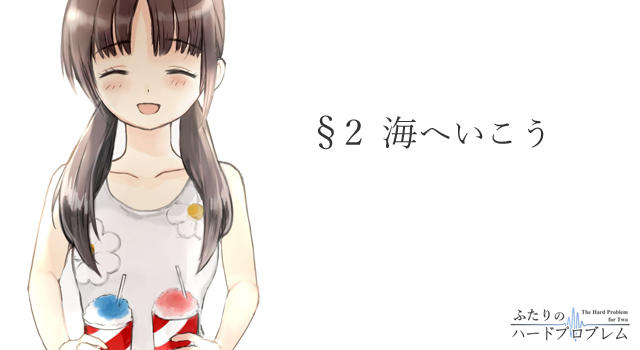
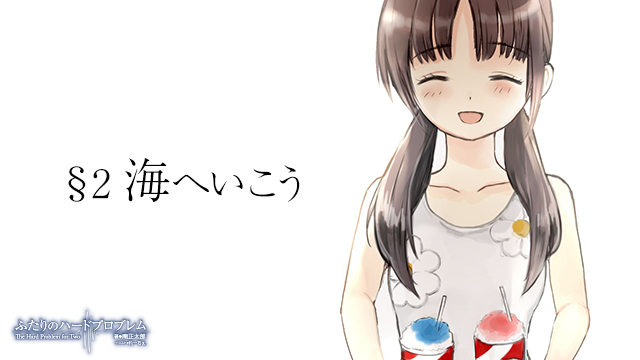
ロゴデザイン変更

diff --git a/hardproblem/1-03.html b/hardproblem/1-03.html
@@ -72,10 +72,10 @@
 「大丈夫だから！　戻らないから！」
 　女の子を洗面所に押し返し、受け取った携帯端末の液晶パネルに目を落とした。製品情報はご丁寧にも中日韓越英の五ヶ国語で書かれており、希海はその中の日本語で書かれた部分に画面をスクロールさせる。
 
-　<span class="simplified">型番</span> : SUM17F4JP1698
-　<span class="simplified">制造番号</span> : 09-130221-0802-000
-　<span class="simplified">制造・贩卖</span> : <span class="simplified">上海人偶机器人工学有限公司近畿支店</span>
-　カスタマーサポート : 0120-XXX-XXX （<span class="simplified">二十四时间</span>）
+　<span class="simplified">型番 : SUM17F4JP1698</span>
+　<span class="simplified">制造番号 : 09-130221-0802-000</span>
+　<span class="simplified">制造・贩卖 : 上海人偶机器人工学有限公司近畿支店</span>
+　カスタマーサポート<span class="simplified"> : 0120-XXX-XXX （二十四时间）</span>
 
 　ビンゴ。ウェブで検索するまでもなく電話番号まで載っていた。しかも、ありがたいことにフリーダイヤルである。
 「どうでしたか？」

diff --git a/hardproblem/components.js b/hardproblem/components.js
@@ -55,7 +55,7 @@ Vue.component('hpft-main-header', {
 
 Vue.component('hpft-page-header', {
   className: 'header hpft-header hpft-page-header',
-  template: '<a href="../hardproblem"><img src="../img/hardproblem_logo_header.png" /></a>'
+  template: '<a href="../hardproblem"><img id="headerlogo" src="../img/hardproblem_logo_1_header.png" /></a>'
           + '<div v-component="hpft-section-index-in-page-header"></div>'
           + '<div class="hr"></div>'
 });
@@ -101,7 +101,7 @@ Vue.component('hpft-section-index-in-page-header', {
           + '</ol>'
           + '<br />'
           + '<select id="fontselect" onchange="selectFont(value)" class="fontselect">'
-          + '<option value="../fonts/yu_mincho.css" selected>游明朝／IPAex明朝</option>'
+          + '<option value="../fonts/yu_mincho.css" selected>游明朝</option>'
           + '<option value="../fonts/notosans.css">Noto Sans CJK</option>'
           + '<option value="../fonts/meiryo.css">メイリオ</option>'
           + '<option value="../fonts/msmincho.css">MS明朝</option>'

diff --git a/hardproblem/desktop.css b/hardproblem/desktop.css
@@ -200,7 +200,6 @@ div.footer div.hpft-index div.hpft-section-index > ol li:hover {
  * Contents
 \**************************************/
 div.contents {
-  color: #666;
   width: 40em;
   margin: 5em auto 5em;
   padding: 0;
@@ -208,7 +207,6 @@ div.contents {
 
 div.contents div.text {
   line-height: 2;
-  font-weight:;
   font-size:17.5px;
   text-align:justify;
 }
@@ -220,8 +218,8 @@ div.contents div.text {
 span.simplified {
   line-height: 2;
   vertical-align:0%;
-  font-size:100%;
 }
+
 
 span.ref_category {
   line-height: 2;
@@ -241,10 +239,10 @@ li.ref_title {
 \**************************************/
 div.contents div.logo {
   border: solid 1px #ccc;
+  width:100%;
 }
 
 div.contents div.logo img {
-  width: 100%;
 }
 
 div.hpft-main-header {

diff --git a/hardproblem/cookie.js b/hardproblem/cookie.js
@@ -4,9 +4,12 @@ flag7=string.indexOf("hpftflag7");
 if(flag7 == -1){
   if(flag4 == -1){
     document.getElementById("cover").src="../img/title1.png";
+    document.getElementById("headerlogo").src="../img/hardproblem_logo_1_header.png"
   }else{
     document.getElementById("cover").src="../img/title2.png";
+    document.getElementById("headerlogo").src="../img/hardproblem_logo_2_header.png"
   }
 }else{
     document.getElementById("cover").src="../img/title3.png";
+    document.getElementById("headerlogo").src="../img/hardproblem_logo_3_header.png"
 }

diff --git a/fonts/yu_mincho.css b/fonts/yu_mincho.css
@@ -1,7 +1,9 @@
+/*
 @font-face {
   font-family: "IPAex明朝";
   src: url("../fonts/ipaexm.ttf") format("truetype") ;
 }
+*/
 
 @font-face {
   font-family: "AR PL SungtiL GB";
@@ -10,9 +12,12 @@
 
 div.contents div.text {
   font-family:"游明朝","游明朝体","Yu Mincho","YuMincho","IPAex明朝";
-  color:black;
+  color:#000;
 }
 
 span.simplified {
-  font-family:"AR PL SungtiL GB";
+  font-family:"SimSun","AR PL SungtiL GB";
+  font-size:105%;
+  color:#404040;
+  text-shadow: 0px 0px 0.5px #BBB;
 }

diff --git a/fonts/msmincho.css b/fonts/msmincho.css
@@ -1,2 +1,9 @@
-div.contents div.text {font-family:"ＭＳ 明朝", "MS Mincho", "MS 明朝", serif;}
-span.simplified {font-family:"SimSun",serif;}
+div.contents div.text {
+    font-family:"ＭＳ 明朝", "MS Mincho", "MS 明朝", serif;
+    color:#555;
+}
+
+span.simplified {
+    font-family:"SimSun",serif;
+    color:#555;
+}

diff --git a/fonts/notosans.css b/fonts/notosans.css
@@ -9,9 +9,13 @@
 }
 
 div.contents div.text {
-  font-family:"Noto Sans CJK JP Light"
+  font-family:"Noto Sans CJK JP Light";
+  color:#555;
 }
 
 span.simplified {
   font-family:"Noto Sans CJK SC Light"
+  font-size:100%;
+  color:#555;
+  text-shadow: 0px 0px 0px #FFFFFF;
 }

diff --git a/fonts/sans-serif.css b/fonts/sans-serif.css
@@ -1,2 +1,9 @@
-div.contents div.text {font-family:sans-serif;}
-span.simplified {font-family:sans-serif;}
+div.contents div.text {
+    font-family:sans-serif;
+    color:#555;
+}
+
+span.simplified {
+    font-family:sans-serif;
+    color:#555;
+}

diff --git a/fonts/serif.css b/fonts/serif.css
@@ -1,2 +1,9 @@
-div.contents div.text {font-family:serif;}
-span.simplified {font-family:serif;}
+div.contents div.text {
+    font-family:serif;
+    color:#222;
+}
+
+span.simplified {
+    font-family:serif;
+    color:#222;
+}

diff --git a/fonts/meiryo.css b/fonts/meiryo.css
@@ -1,7 +1,11 @@
 div.contents div.text {
   font-family:"メイリオ", "Meiryo";
+  color:#666;
 }
 
 span.simplified {
   font-family:"Microsoft YaHei";
+  font-size:100%;
+  color:#666;
+  text-shadow: 0px 0px 0px #FFFFFF;
 }
